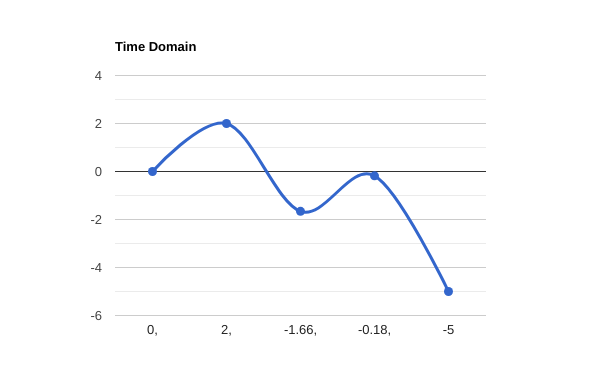
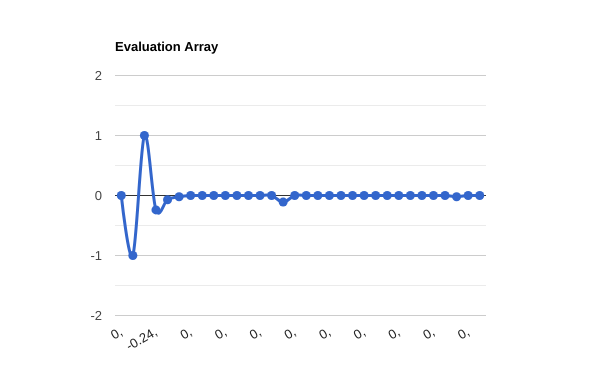
Updated the docs

diff --git a/docs/heuristics.md b/docs/heuristics.md
@@ -48,7 +48,7 @@ Listed below are the chess heuristics implemented in PHP Chess.
 
 The evaluation features are used in several classes.
 
-## Evaluation Functions
+## Evaluate a Chess Position
 
 [Chess\EvalArray](https://github.com/chesslablab/php-chess/blob/main/tests/unit/EvalArrayTest.php) allows to transform a FEN position to a normalized array of values between -1 and +1. -1 is the best possible evaluation for Black and +1 the best possible evaluation for White. Both forces being set to 0 means they're balanced.
 
@@ -156,15 +156,7 @@ This data structure is used to estimate who may be better without considering ch
 As chess champion William Steinitz pointed out, a strong position can be created by accumulating small advantages. The relative value of the position without considering checkmate is obtained by counting the advantages in the evaluation array.
 
 ```php
-use Chess\EvalArray;
-use Chess\FenToBoardFactory;
-use Chess\Function\CompleteFunction;
-
-$fen = 'rnbqkb1r/p1pp1ppp/1p2pn2/8/2PP4/2N2N2/PP2PPPP/R1BQKB1R b KQkq -';
-
-$board = FenToBoardFactory::create($fen);
-
-$steinitz = EvalArray::steinitz(new CompleteFunction(), $board);
+$steinitz = EvalArray::steinitz($f, $board);
 
 echo $steinitz;
 ```
@@ -173,48 +165,30 @@ echo $steinitz;
 1
 ```
 
-In this example, one evaluation feature is favoring White.
+In this example, White is better than Black because the value obtained is a positive number. One evaluation feature is favoring White.
 
-The Steinitz evaluation alone has proven to be quite good for making relative estimates of chess positions in a way that is easy for human players to understand and to learn. However, it can be complemented with other statistical measures such as the mean, median, and mode of the evaluation array.
+The Steinitz evaluation alone has proven to be quite good for making relative estimates of chess positions in a way that is easy for human players to understand and to learn. However, it can be complemented with other statistical measures such as the mean, median, mode, and standard deviation of the evaluation array.
 
-### Mean Evaluation
+### Mean
 
 The mean represents the center of the evaluation array being intermediate to the extreme values.
 
 ```php
-use Chess\EvalArray;
-use Chess\FenToBoardFactory;
-use Chess\Function\CompleteFunction;
-
-$fen = 'rnbqkb1r/p1pp1ppp/1p2pn2/8/2PP4/2N2N2/PP2PPPP/R1BQKB1R b KQkq -';
-
-$board = FenToBoardFactory::create($fen);
-
-$mean = EvalArray::mean(new CompleteFunction(), $board);
+$mean = EvalArray::mean($f, $board);
 
 echo $mean;
 ```
 
 ```text
-0.24
+0.08
 ```
 
-White is slightly better than Black because the value obtained is a positive number.
-
-### Median Evaluation
+### Median
 
 The median is the value in the middle of the evaluation array without counting the zeros.
 
 ```php
-use Chess\EvalArray;
-use Chess\FenToBoardFactory;
-use Chess\Function\CompleteFunction;
-
-$fen = 'rnbqkb1r/p1pp1ppp/1p2pn2/8/2PP4/2N2N2/PP2PPPP/R1BQKB1R b KQkq -';
-
-$board = FenToBoardFactory::create($fen);
-
-$median = EvalArray::median(new CompleteFunction(), $board);
+$median = EvalArray::median($f, $board);
 
 echo $median;
 ```
@@ -223,20 +197,12 @@ echo $median;
 0.24
 ```
 
-### Mode Evaluation
+### Mode
 
 The mode is the value that appears most frequently in the evaluation array.
 
 ```php
-use Chess\EvalArray;
-use Chess\FenToBoardFactory;
-use Chess\Function\CompleteFunction;
-
-$fen = 'rnbqkb1r/p1pp1ppp/1p2pn2/8/2PP4/2N2N2/PP2PPPP/R1BQKB1R b KQkq -';
-
-$board = FenToBoardFactory::create($fen);
-
-$mode = EvalArray::mode(new CompleteFunction(), $board);
+$mode = EvalArray::mode($f, $board);
 
 echo $mode;
 ```
@@ -247,12 +213,26 @@ NULL
 
 In this example, no mode exists since there are no repeating numbers in the evaluation array.
 
-## Oscillations of a Game by Evaluation Feature
+### Standard Deviation
 
-[Chess\SanHeuristics](https://github.com/chesslablab/php-chess/blob/main/tests/unit/SanHeuristicsTest.php) returns the oscillations of an evaluation feature in the time domain.
+The standard deviation is a measure of how spread out the evaluation array is.
 
 ```php
-use Chess\SanHeuristics;
+$sd = EvalArray::sd($f, $board);
+
+echo $sd;
+```
+
+```text
+0.8243
+```
+
+## Oscillations of a Game
+
+Given a PGN movetext in SAN format, [Chess\SanPlotter](https://github.com/chesslablab/php-chess/blob/main/tests/unit/SanPlotterTest.php) returns the oscillations of an evaluation feature in the time domain.
+
+```php
+use Chess\SanPlotter;
 use Chess\Function\CompleteFunction;
 
 $f = new CompleteFunction();
@@ -261,7 +241,7 @@ $name = 'Space';
 
 $movetext = '1.e4 d5 2.exd5 Qxd5';
 
-$time = (new SanHeuristics($f, $movetext, $name))->time;
+$time = (new SanPlotter($f, $movetext, $name))->time;
 
 print_r($time);
 ```
@@ -279,12 +259,14 @@ Array
 
 ![Figure 1](https://raw.githubusercontent.com/chesslablab/php-chess/main/docs/heuristics_01.png)
 
-## All Oscillations of a Game
+The data is plotted in a way that is easy for chess players to understand and learn.
 
-[Chess\SanSignal](https://github.com/chesslablab/php-chess/blob/main/tests/unit/SanSignalTest.php) returns the oscillations of all evaluation features both in the time domain and the heuristic domain, and it also returns the individual components of both domains.
+## Chess Data Extractor
+
+Given a PGN movetext in SAN format, [Chess\SanExtractor](https://github.com/chesslablab/php-chess/blob/main/tests/unit/SanExtractorTest.php) returns the oscillations of all evaluation features for data analysis purposes like in the following example.
 
 ```php
-use Chess\SanSignal;
+use Chess\SanExtractor;
 use Chess\Function\CompleteFunction;
 use Chess\Variant\Classical\Board;
 
@@ -292,56 +274,15 @@ $f = new CompleteFunction();
 
 $movetext = '1.e4 d5 2.exd5 Qxd5';
 
-$sanSignal = new SanSignal($f, $movetext, new Board());
-
-print_r($sanSignal->time);
-print_r($sanSignal->heuristic);
+$sanExtractor = new SanExtractor($f, $movetext, new Board());
 ```
 
-```text
-Array
-(
-    [0] => 0
-    [1] => 2
-    [2] => -1.66
-    [3] => -0.18
-    [4] => -5
-)
-Array
-(
-    [0] => 0
-    [1] => 0.73
-    [2] => -0.95
-    [3] => -3.11
-    [4] => -0.46
-)
-```
+### Evaluation Array
 
-![Figure 2](https://raw.githubusercontent.com/chesslablab/php-chess/main/docs/heuristics_02.png)
-
-![Figure 3](https://raw.githubusercontent.com/chesslablab/php-chess/main/docs/heuristics_03.png)
-
-The time domain and the heuristic domain are calculated by adding up their individual components. This is how to obtain the space oscillations by using time component number three.
+The heuristic domain is calculated by adding up its individual components. This is how component number four, which is to say the normalization of the fourth evaluation array, is obtained from the example above.
 
 ```php
-print_r($sanSignal->timeComponent[3]);
-```
-
-```text
-Array
-(
-    [0] => 0
-    [1] => 1
-    [2] => 0.25
-    [3] => 0.5
-    [4] => -1
-)
-```
-
-And this is how to obtain the oscillations of all evaluation features after the second move (4 plies) has been played.
-
-```php
-print_r($sanSignal->heuristicComponent[4]);
+print_r($sanExtractor->heuristic[4]);
 ```
 
 ```text
@@ -379,6 +320,45 @@ Array
     [29] => -0.02
     [30] => 0
     [31] => 0
+)
+```
+
+![Figure 2](https://raw.githubusercontent.com/chesslablab/php-chess/main/docs/heuristics_02.png)
+
+The evaluation array can be plotted in a way that is easy for chess players to understand and learn.
+
+### Mean
+
+```php
+print_r($sanExtractor->mean);
+```
+
+```text
+(
+    [0] => 0
+    [1] => 0.185
+    [2] => -0.16
+    [3] => -0.315
+    [4] => -0.0657
+)
+```
+
+![Figure 3](https://raw.githubusercontent.com/chesslablab/php-chess/main/docs/heuristics_03.png)
+
+### Standard Deviation
+
+```php
+print_r($sanExtractor->sd);
+```
+
+```text
+Array
+(
+    [0] => 0
+    [1] => 0.7591
+    [2] => -0.8552
+    [3] => -0.7274
+    [4] => -0.5406
 )
 ```
 
